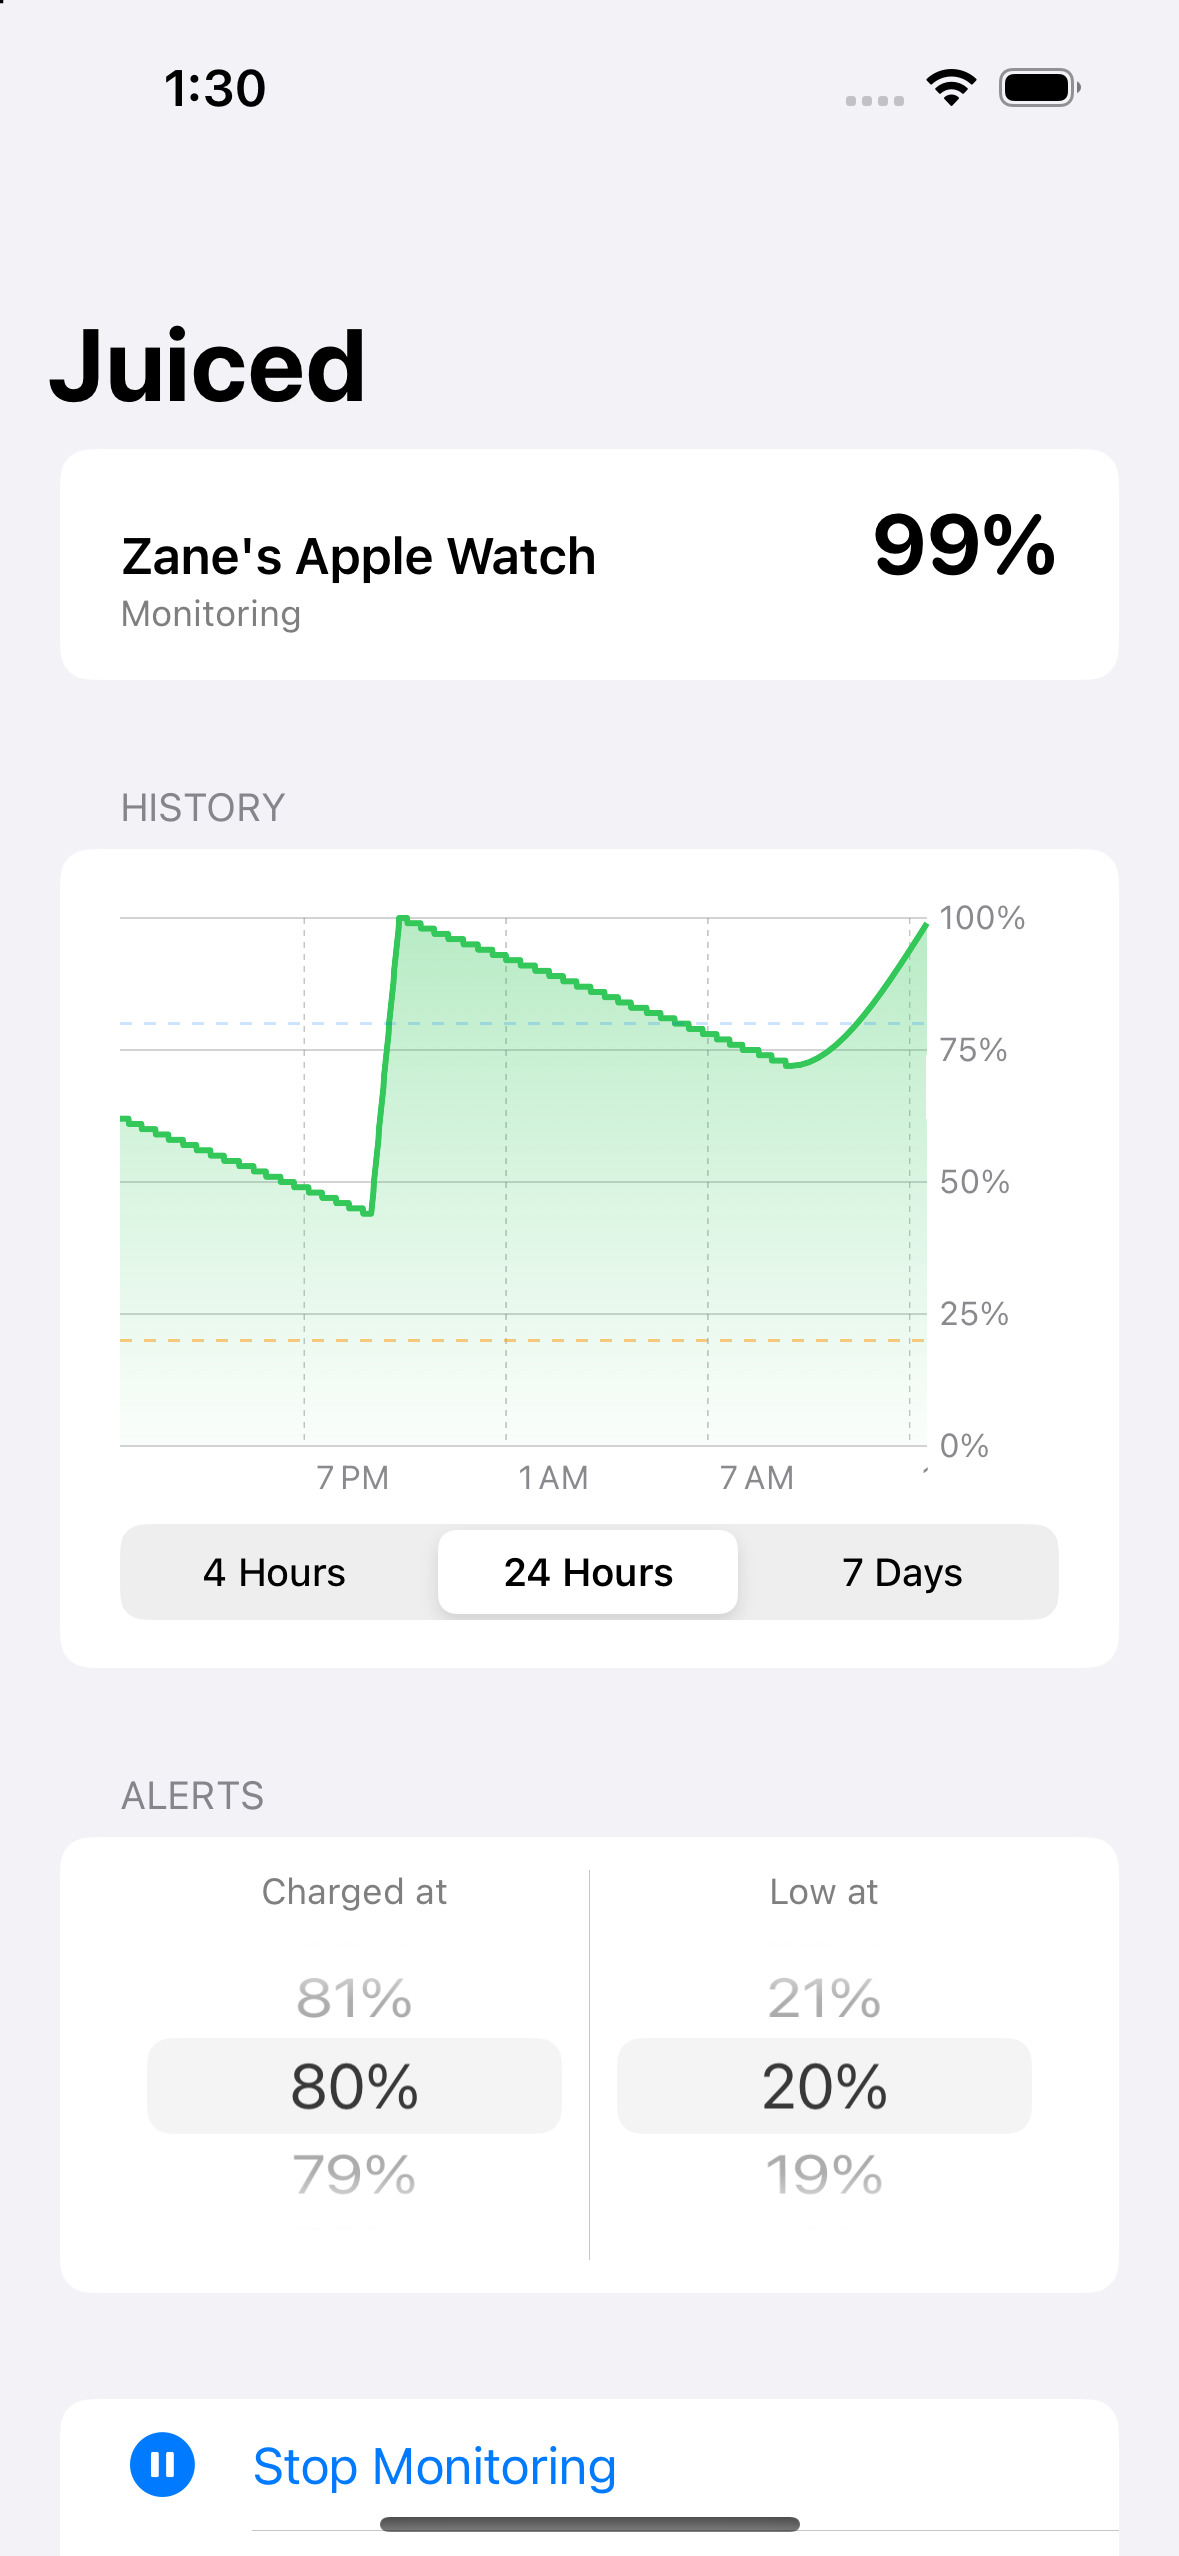
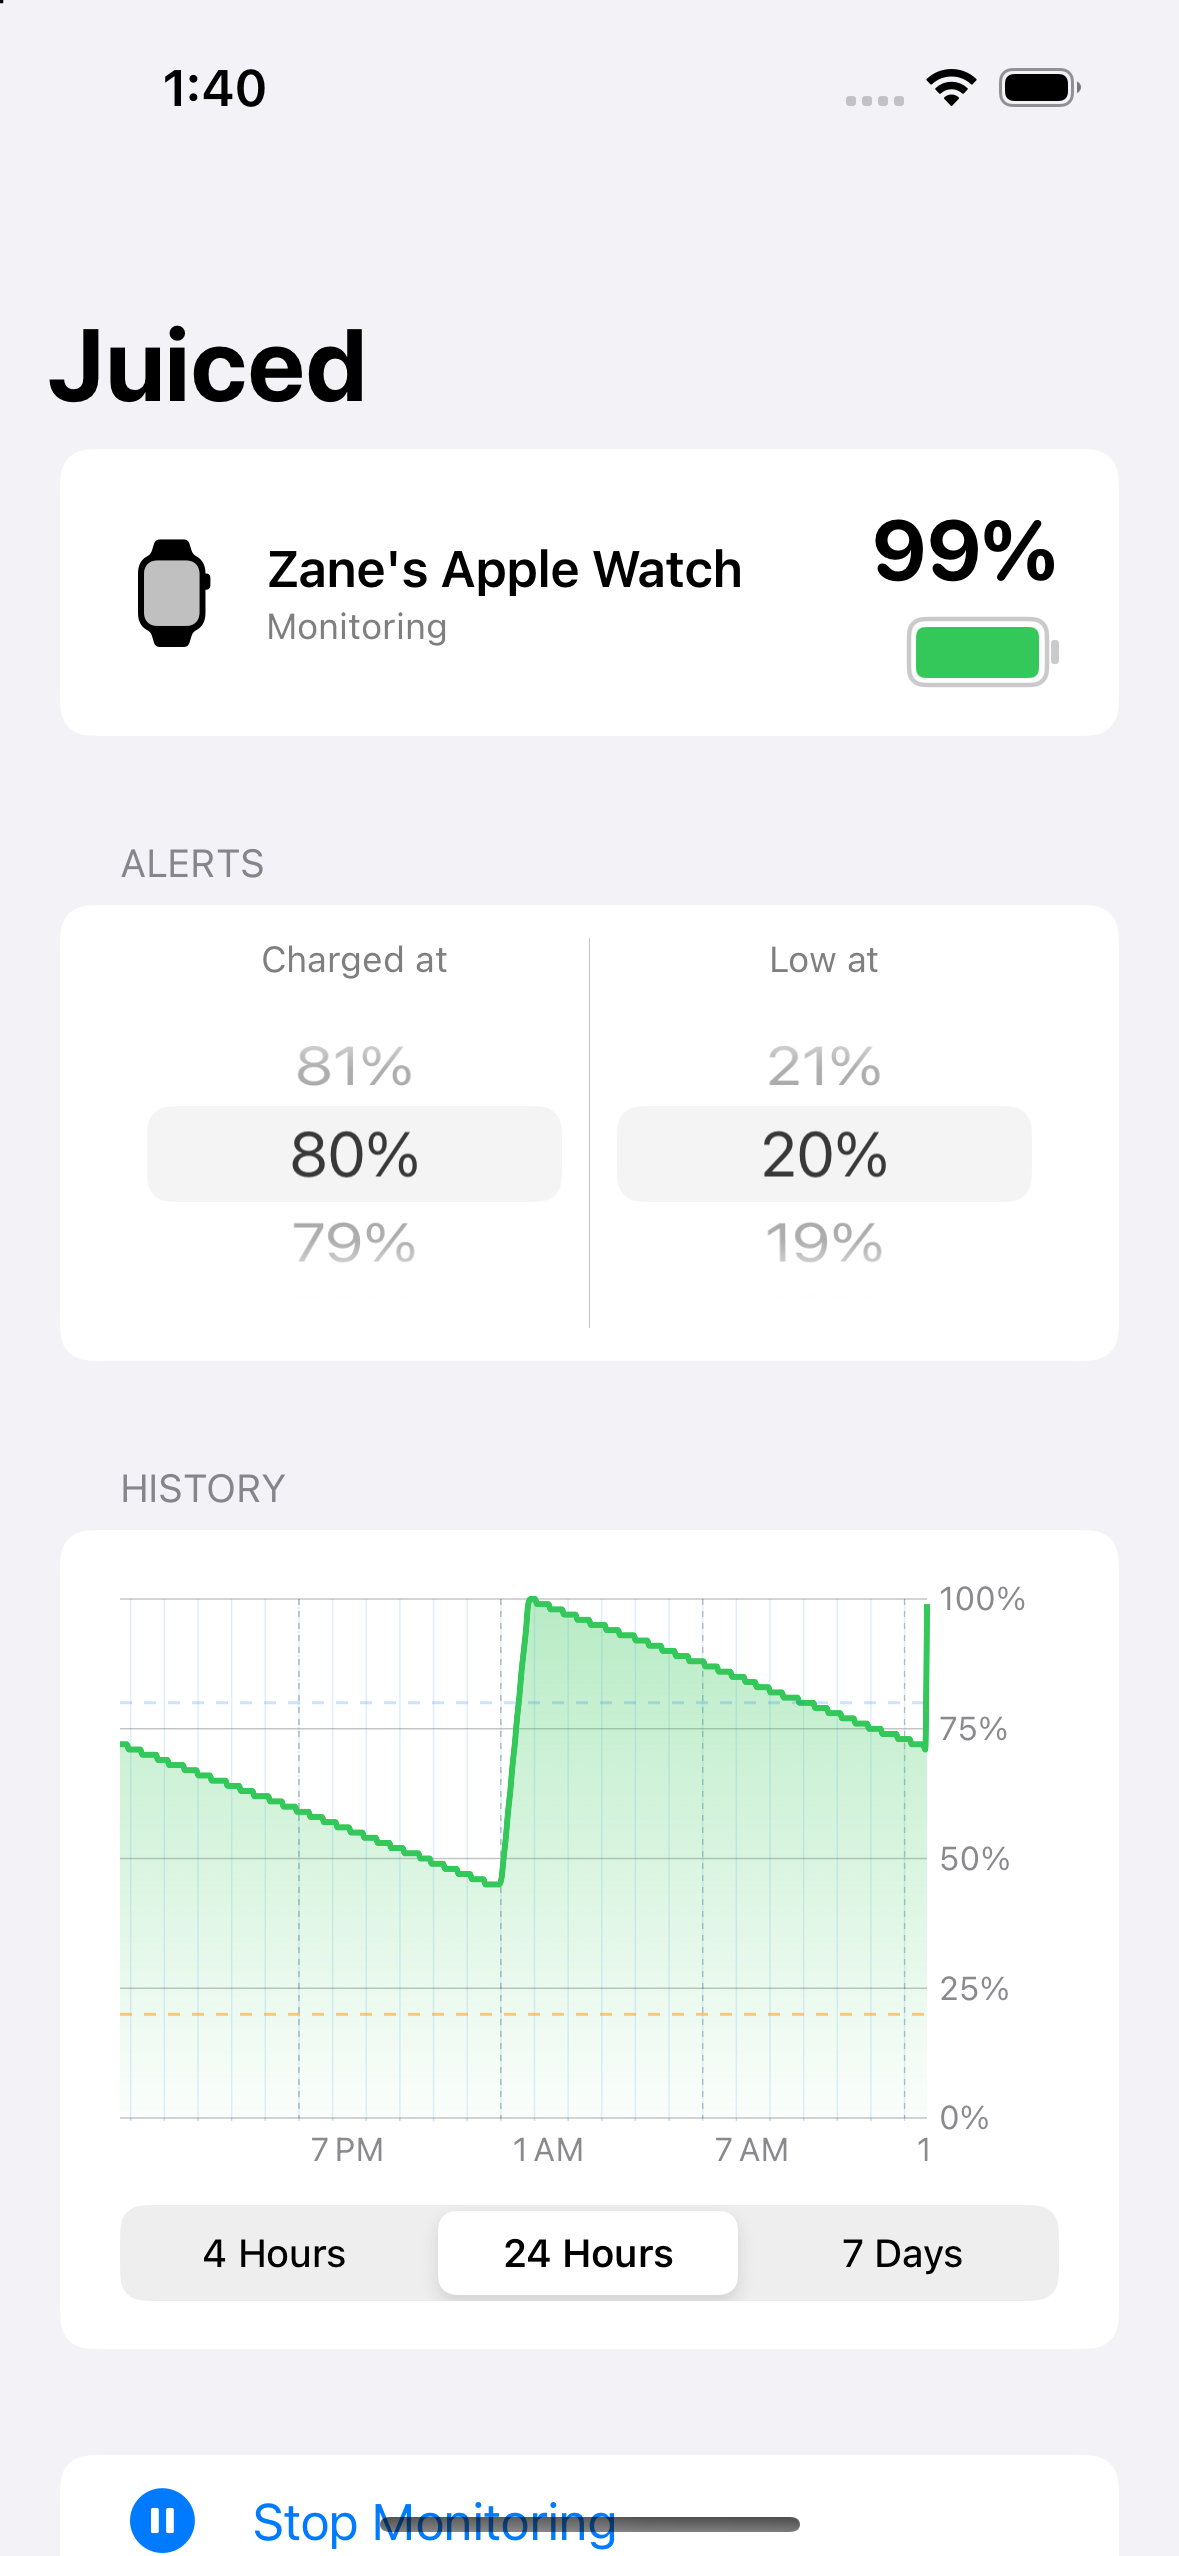
Reorder alerts above history, add watch glyph, battery gauge, axis ticks
Status row gains an applewatch symbol and a battery glyph filled in 20%
buckets. Charts get fine gridlines and ticks (15min/1h/6h by range) under
coarser labels, and each window is thinned to 350 points before drawing —
a full week is 10,080 samples, which is far more geometry than the plot can
resolve.

diff --git a/Sources/ContentView.swift b/Sources/ContentView.swift
@@ -22,8 +22,8 @@ struct ContentView: View {
         NavigationStack {
             List {
                 statusSection
-                historySection
                 thresholdSection
+                historySection
                 controlSection
                 appearanceSection
             }
@@ -35,24 +35,33 @@ struct ContentView: View {
 
     private var statusSection: some View {
         Section {
-            HStack(alignment: .firstTextBaseline) {
+            HStack(spacing: 14) {
+                Image(systemName: "applewatch")
+                    .font(.system(size: 36, weight: .light))
+                    .foregroundStyle(.primary)
+
                 VStack(alignment: .leading, spacing: 2) {
                     Text(monitor.watchName).font(.headline)
                     Text(monitor.running ? "Monitoring" : "Paused")
                         .font(.caption)
                         .foregroundStyle(.secondary)
                 }
+
                 Spacer()
-                HStack(spacing: 4) {
-                    if monitor.charging {
-                        Image(systemName: "bolt.fill").foregroundStyle(.green)
+
+                VStack(alignment: .trailing, spacing: 6) {
+                    HStack(spacing: 4) {
+                        if monitor.charging {
+                            Image(systemName: "bolt.fill").foregroundStyle(.green)
+                        }
+                        Text(monitor.percent >= 0 ? "\(monitor.percent)%" : "—")
+                            .font(.system(.title, design: .rounded)).bold()
+                            .monospacedDigit()
                     }
-                    Text(monitor.percent >= 0 ? "\(monitor.percent)%" : "—")
-                        .font(.system(.title, design: .rounded)).bold()
-                        .monospacedDigit()
+                    BatteryGauge(percent: monitor.percent)
                 }
             }
-            .padding(.vertical, 4)
+            .padding(.vertical, 6)
         }
     }
 

diff --git a/Sources/HistoryChart.swift b/Sources/HistoryChart.swift
@@ -16,7 +16,17 @@ enum ChartRange: String, CaseIterable, Identifiable {
         }
     }
 
-    var strideBy: (Calendar.Component, Int) {
+    /// Tick + gridline spacing.
+    var tickStride: (Calendar.Component, Int) {
+        switch self {
+        case .fourHours: return (.minute, 15)
+        case .day:       return (.hour, 1)
+        case .week:      return (.hour, 6)
+        }
+    }
+
+    /// Label spacing — coarser than the ticks, or they collide on a phone.
+    var labelStride: (Calendar.Component, Int) {
         switch self {
         case .fourHours: return (.hour, 1)
         case .day:       return (.hour, 6)
@@ -72,7 +82,13 @@ struct HistoryChart: View {
                 }
             }
             .chartXAxis {
-                AxisMarks(values: .stride(by: range.strideBy.0, count: range.strideBy.1)) { value in
+                AxisMarks(values: .stride(by: range.tickStride.0, count: range.tickStride.1)) {
+                    AxisGridLine(stroke: StrokeStyle(lineWidth: 0.5))
+                        .foregroundStyle(.secondary.opacity(0.25))
+                    AxisTick(length: 3)
+                        .foregroundStyle(.secondary.opacity(0.5))
+                }
+                AxisMarks(values: .stride(by: range.labelStride.0, count: range.labelStride.1)) {
                     AxisGridLine()
                     AxisValueLabel(format: range.format)
                 }

diff --git a/Sources/BatteryGauge.swift b/Sources/BatteryGauge.swift
@@ -1,0 +1,37 @@
+import SwiftUI
+
+/// Battery glyph filled to the nearest 20%.
+struct BatteryGauge: View {
+    let percent: Int
+
+    private let width: CGFloat = 46
+    private let height: CGFloat = 22
+    private let inset: CGFloat = 2.5
+
+    /// 0 / 20 / 40 / 60 / 80 / 100
+    private var bucket: Int {
+        guard percent >= 0 else { return 0 }
+        return min(100, max(0, Int((Double(percent) / 20).rounded()) * 20))
+    }
+
+    var body: some View {
+        HStack(spacing: 1.5) {
+            ZStack(alignment: .leading) {
+                RoundedRectangle(cornerRadius: 5)
+                    .stroke(Color.secondary.opacity(0.45), lineWidth: 1.5)
+                    .frame(width: width, height: height)
+                RoundedRectangle(cornerRadius: 3)
+                    .fill(Color.green)
+                    .frame(width: (width - inset * 2) * CGFloat(bucket) / 100,
+                           height: height - inset * 2)
+                    .padding(.leading, inset)
+            }
+            .frame(width: width, height: height)
+
+            RoundedRectangle(cornerRadius: 1)
+                .fill(Color.secondary.opacity(0.45))
+                .frame(width: 2.5, height: 8)
+        }
+        .accessibilityLabel("Battery \(bucket) percent")
+    }
+}

diff --git a/Sources/BatteryHistory.swift b/Sources/BatteryHistory.swift
@@ -33,9 +33,19 @@ final class BatteryHistory: ObservableObject {
         if unsaved >= 5 { save() }                  // batch writes; at most 5 min lost on kill
     }
 
-    func samples(since interval: TimeInterval, now: Date = Date()) -> [Sample] {
+    /// Samples in the window, thinned to at most `maxPoints` for display.
+    ///
+    /// A full week is 10,080 samples, and Swift Charts draws two marks for each —
+    /// far more geometry than 390pt of screen can resolve. Battery curves are
+    /// smooth enough that plain striding tracks them faithfully.
+    func samples(since interval: TimeInterval, maxPoints: Int = 350, now: Date = Date()) -> [Sample] {
         let cutoff = now.addingTimeInterval(-interval)
-        return samples.filter { $0.t >= cutoff }
+        let window = samples.filter { $0.t >= cutoff }
+        guard window.count > maxPoints else { return window }
+        let step = window.count / maxPoints
+        var thinned = stride(from: 0, to: window.count, by: step).map { window[$0] }
+        if let last = window.last, thinned.last != last { thinned.append(last) }
+        return thinned
     }
 
     func save() {

diff --git a/README.md b/README.md
@@ -21,8 +21,12 @@ watch's battery and fires a local notification when it crosses a threshold:
 
 It also logs a reading roughly every minute and keeps a rolling 7 days of
 history, charted over 4 hours, 24 hours, or the full week (swipe the chart or
-use the segmented control). Readings only accrue while the app is alive, so
-stopping monitoring or force-quitting leaves a gap in the series.
+use the segmented control), with gridlines every 15 minutes, hour, and 6 hours
+respectively. Readings only accrue while the app is alive, so stopping
+monitoring or force-quitting leaves a gap in the series.
+
+A full week is 10,080 samples — about 443 KB on disk and ~250 KB in memory —
+and the chart thins each window to at most 350 points before drawing.
 
 Both alerts are silent and time-sensitive. Each re-arms when the watch's charging
 state flips, so you get one alert per charge cycle rather than a stream.
